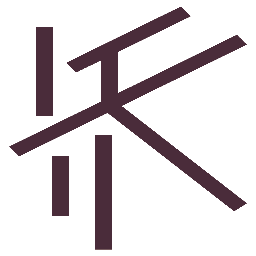
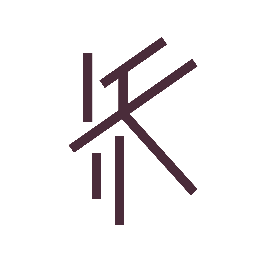
Fix masthead brand mark being cropped instead of resized
Regenerating the seal previously cropped the logo to a computed ink
bounding box, then squeezed that non-square crop into a square canvas --
clipping anti-aliased stroke tips and distorting the proportions. Now it
resizes the whole artwork down, same as the other app icons, and the CSS
sizing was bumped to compensate for the source's own generous margins.

Changed region(s): [[0.0312, 0.0312, 0.9688, 1.0], [0.5312, 0.4688, 0.9688, 0.8438], [0.5, 0.5, 0.5312, 0.5312]]

diff --git a/style.css b/style.css
@@ -249,8 +249,8 @@ body {
 }
 
 .brand-seal img {
-    width: 62%;
-    height: 62%;
+    width: 88%;
+    height: 88%;
     object-fit: contain;
     display: block;
 }
